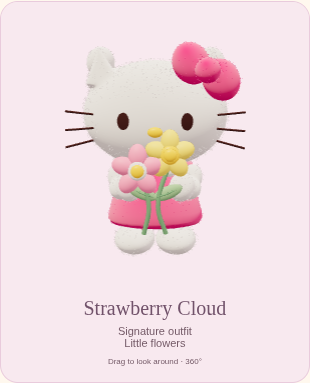
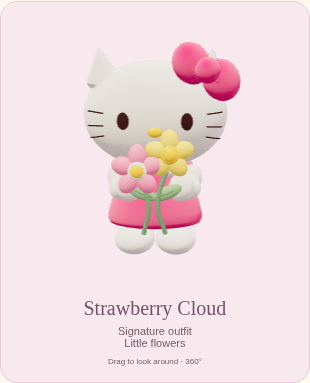
Record the verified natural plush correction and updated game previews

diff --git a/docs/production-plan.md b/docs/production-plan.md
@@ -542,7 +542,7 @@ Physical phone/Safari review remains pending; Chromium phone emulation is not
 physical-device certification. Use `docs/phone-playtest.md` for that remaining
 review. No new main button or additional mission was added in this release.
 
-## Natural plush surface correction · v2.0.1 (in review)
+## Natural plush surface correction · v2.0.1
 
 The exposed white curls around the chin read as facial hair in actual play.
 Replace the free curled pile with a packed seamless 512px fleece normal and
@@ -559,3 +559,26 @@ Acceptance: visually inspect Blender portraits and actual browser previews;
 verify no exposed curl geometry, the packed fabric texture and all original
 motion/prop contact assertions. Run the automated checks and all release browser
 journeys before publication. Physical phone and Safari review remain pending.
+
+Local verification: all 196 automated checks passed (79 Node/model/domain and
+117 Vitest). All five actual browser models danced, winked, restored happy eyes
+and kept shared clothes; adventure walking/reload, postcards, baking, 320px touch
+and reduced motion passed. Failure/retry, late-response cancellation and the
+classic fallback passed. Source portraits and actual game previews were reviewed, including a side-by-side
+comparison against the previous in-game model. The existing full cozy-life
+baking/delivery journey also passed locally, with zero page errors.
+Model payloads are now 2.95–3.28 MB, with no exposed pile meshes.
+
+Blender source: `9f73b7f1450535d5b7abe42a3ae3336366eebd6c`.
+Game candidate: `a3f564e22969063add8262c0f12e074e13499b6e`.
+The corrected five-project download was verified against every source checksum.
+Published after all **196 automated checks** and **16 browser suites** passed.
+All four browser groups and the Pages deployment succeeded in
+[run 42096173464](https://github.com/hmlim123/hellokittygame/actions/runs/42096173464).
+The deployed site uses the exact artifact that passed that gate:
+<https://hmlim123.github.io/hellokittygame/?v=gift-20&update=soft-plush-25>.
+The local downloadable website also contains the corrected models and the tested
+game revision. The five portable Blender projects and their portraits are bundled
+with a source manifest, and every bundled source checksum was verified.
+No reset marker, quest, saved outfit or personal letter changed. Physical phone
+and Safari verification remain pending.
